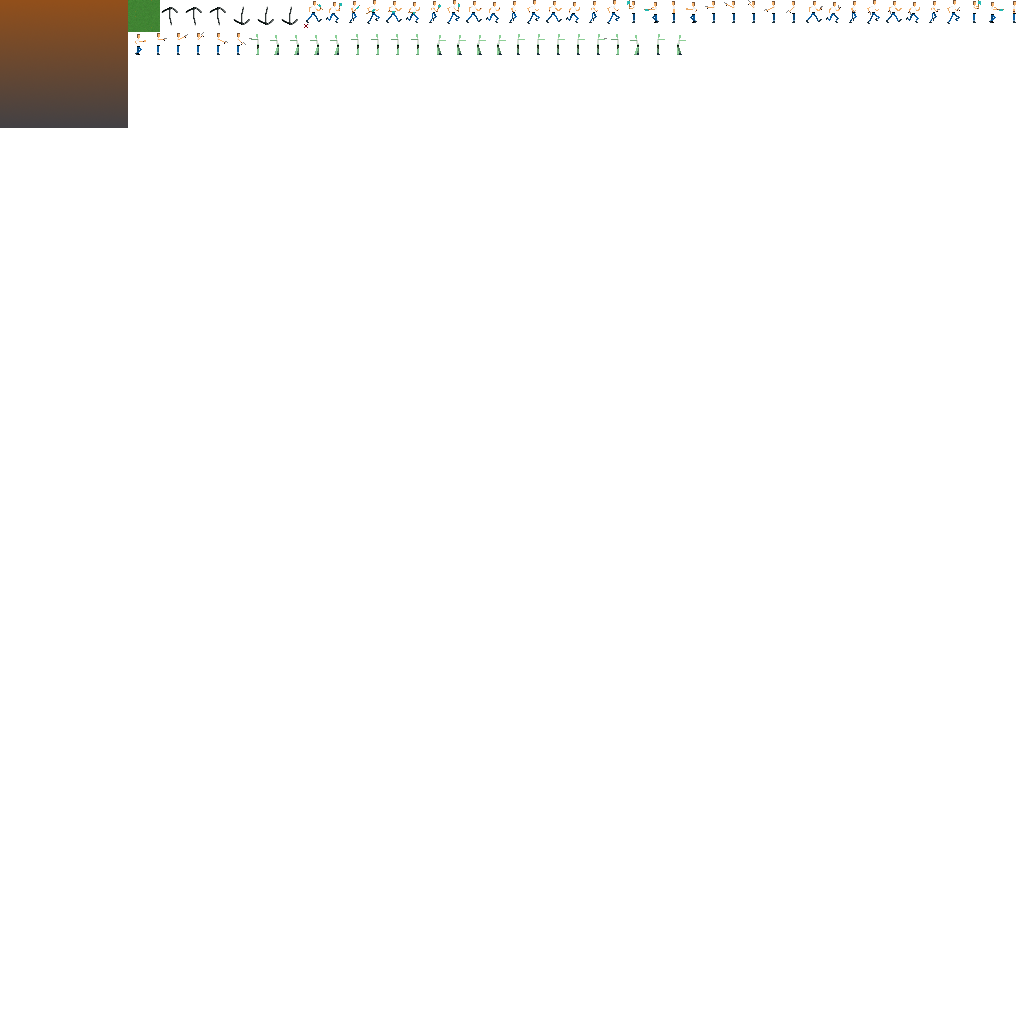
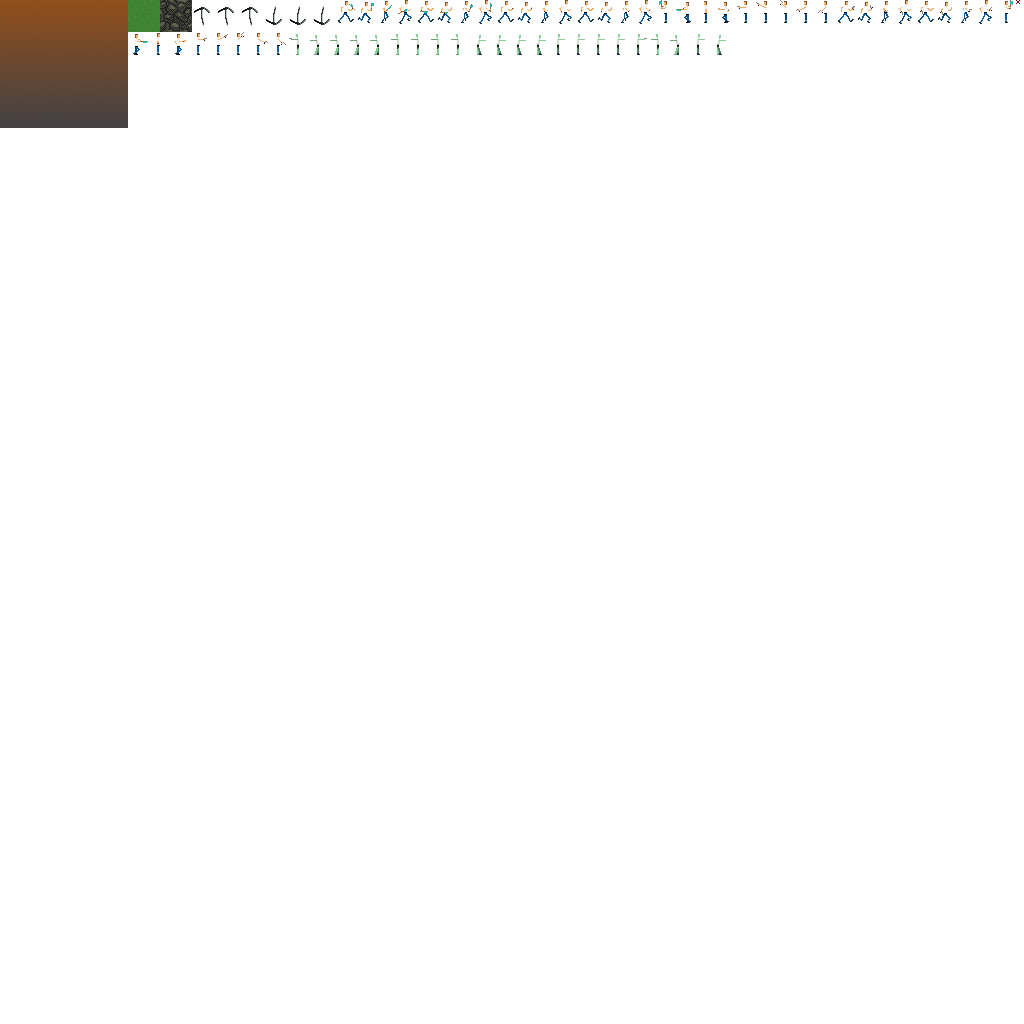
Added a rock tile

Changed region(s): [[0.1562, 0.0, 1.0, 0.0625]]

diff --git a/game_view.py b/game_view.py
@@ -117,12 +117,14 @@ class TileTypes:
     GRASS               = 2
     PLAYER              = 3
     ZOMBIE              = 4
-    Impassable          = set((GRASS,))
+    ROCK                = 5
+    Impassable          = set((GRASS,ROCK))
 
 class TileData(object):
     texture_names = {TileTypes.GRASS         : 'grass.png',
                      TileTypes.PLAYER        : 'grass.png',
-                     TileTypes.ZOMBIE        : 'grass.png'}
+                     TileTypes.ZOMBIE        : 'grass.png',
+                     TileTypes.ROCK          : 'rock.png'}
 
     def __init__(self,type,pos):
         self.pos  = pos
@@ -189,7 +191,9 @@ def TileDataFactory(map,type,pos):
 
 class GameMap(object):
     input_mapping = {' ' : TileTypes.AIR,
-                     '.' : TileTypes.GRASS,
+                     '-' : TileTypes.GRASS,
+                     '.' : TileTypes.ROCK,
+                     'l' : TileTypes.ROCK,
                      'p' : TileTypes.PLAYER,
                      'z' : TileTypes.ZOMBIE}
     def __init__(self,name,parent):
